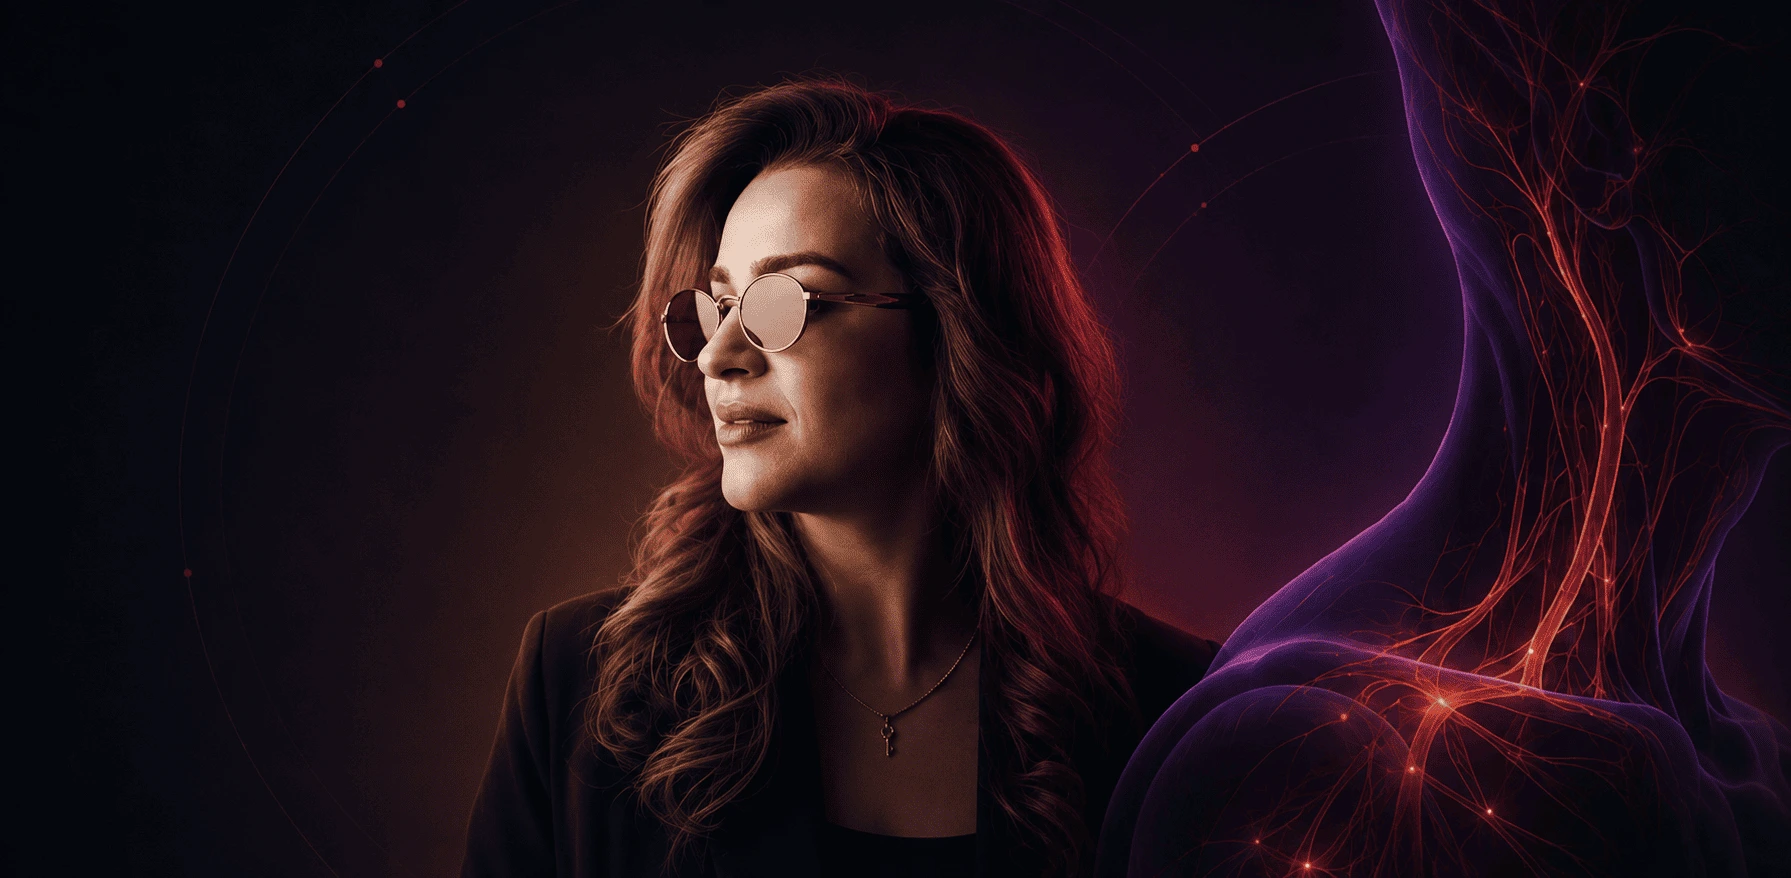
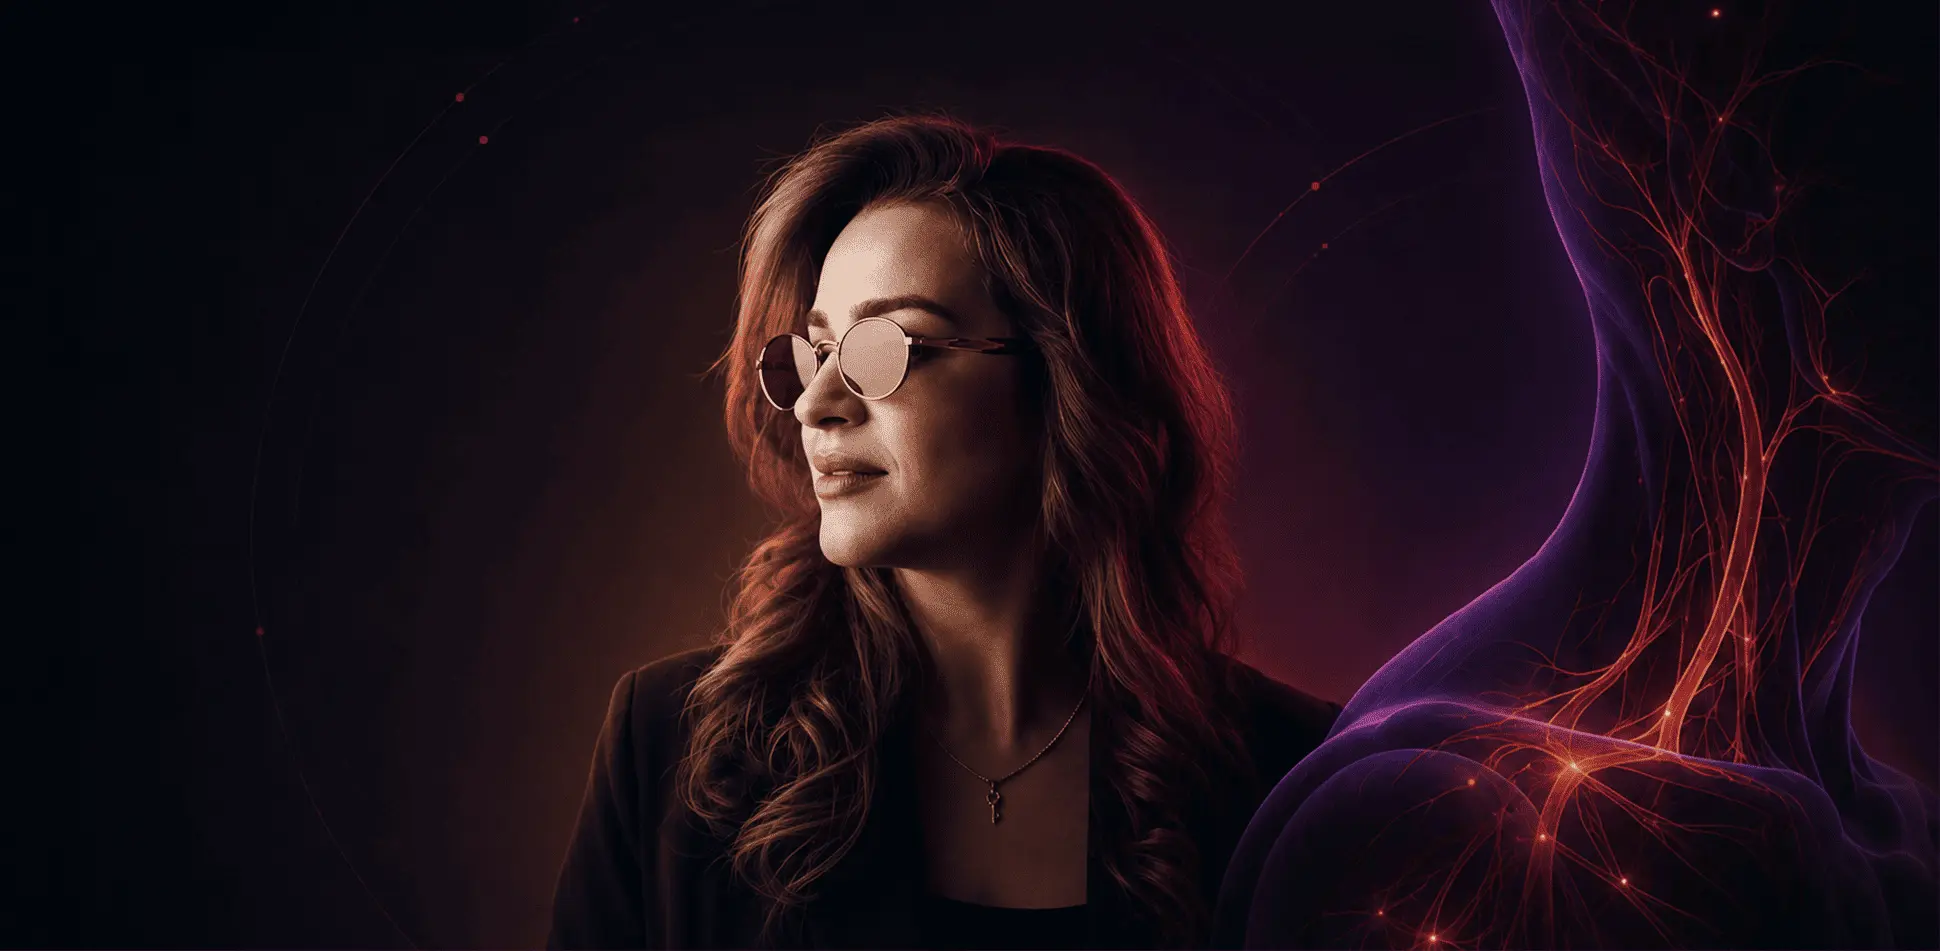
Update hero colour plate
The new hero_nadia1 recomposes the shot — she sits lower and the chin now
reaches 0.592 of the frame rather than 0.575. Widened the slide's face box to
match, so the headline still clears her face at every crop.

Changed region(s): [[0.2457, 0.0923, 0.6449, 1.0], [0.6142, 0.0, 0.9827, 1.0], [0.8291, 0.9226, 0.8599, 0.9533]]

diff --git a/lib/heroSlides.ts b/lib/heroSlides.ts
@@ -44,7 +44,7 @@ export const SLIDES: Slide[] = [
     mono: "/assets/hero_nadia2.webp",
     colour: "/assets/hero_nadia1.webp",
     img: { w: 2466, h: 1209 },
-    face: { left: 0.39, right: 0.53, top: 0.235, bottom: 0.575 },
+    face: { left: 0.39, right: 0.53, top: 0.232, bottom: 0.592 },
     anchorX: 0.5,
     /*
      * At 2.04:1 every plate here is wider than an ordinary viewport, so cover
